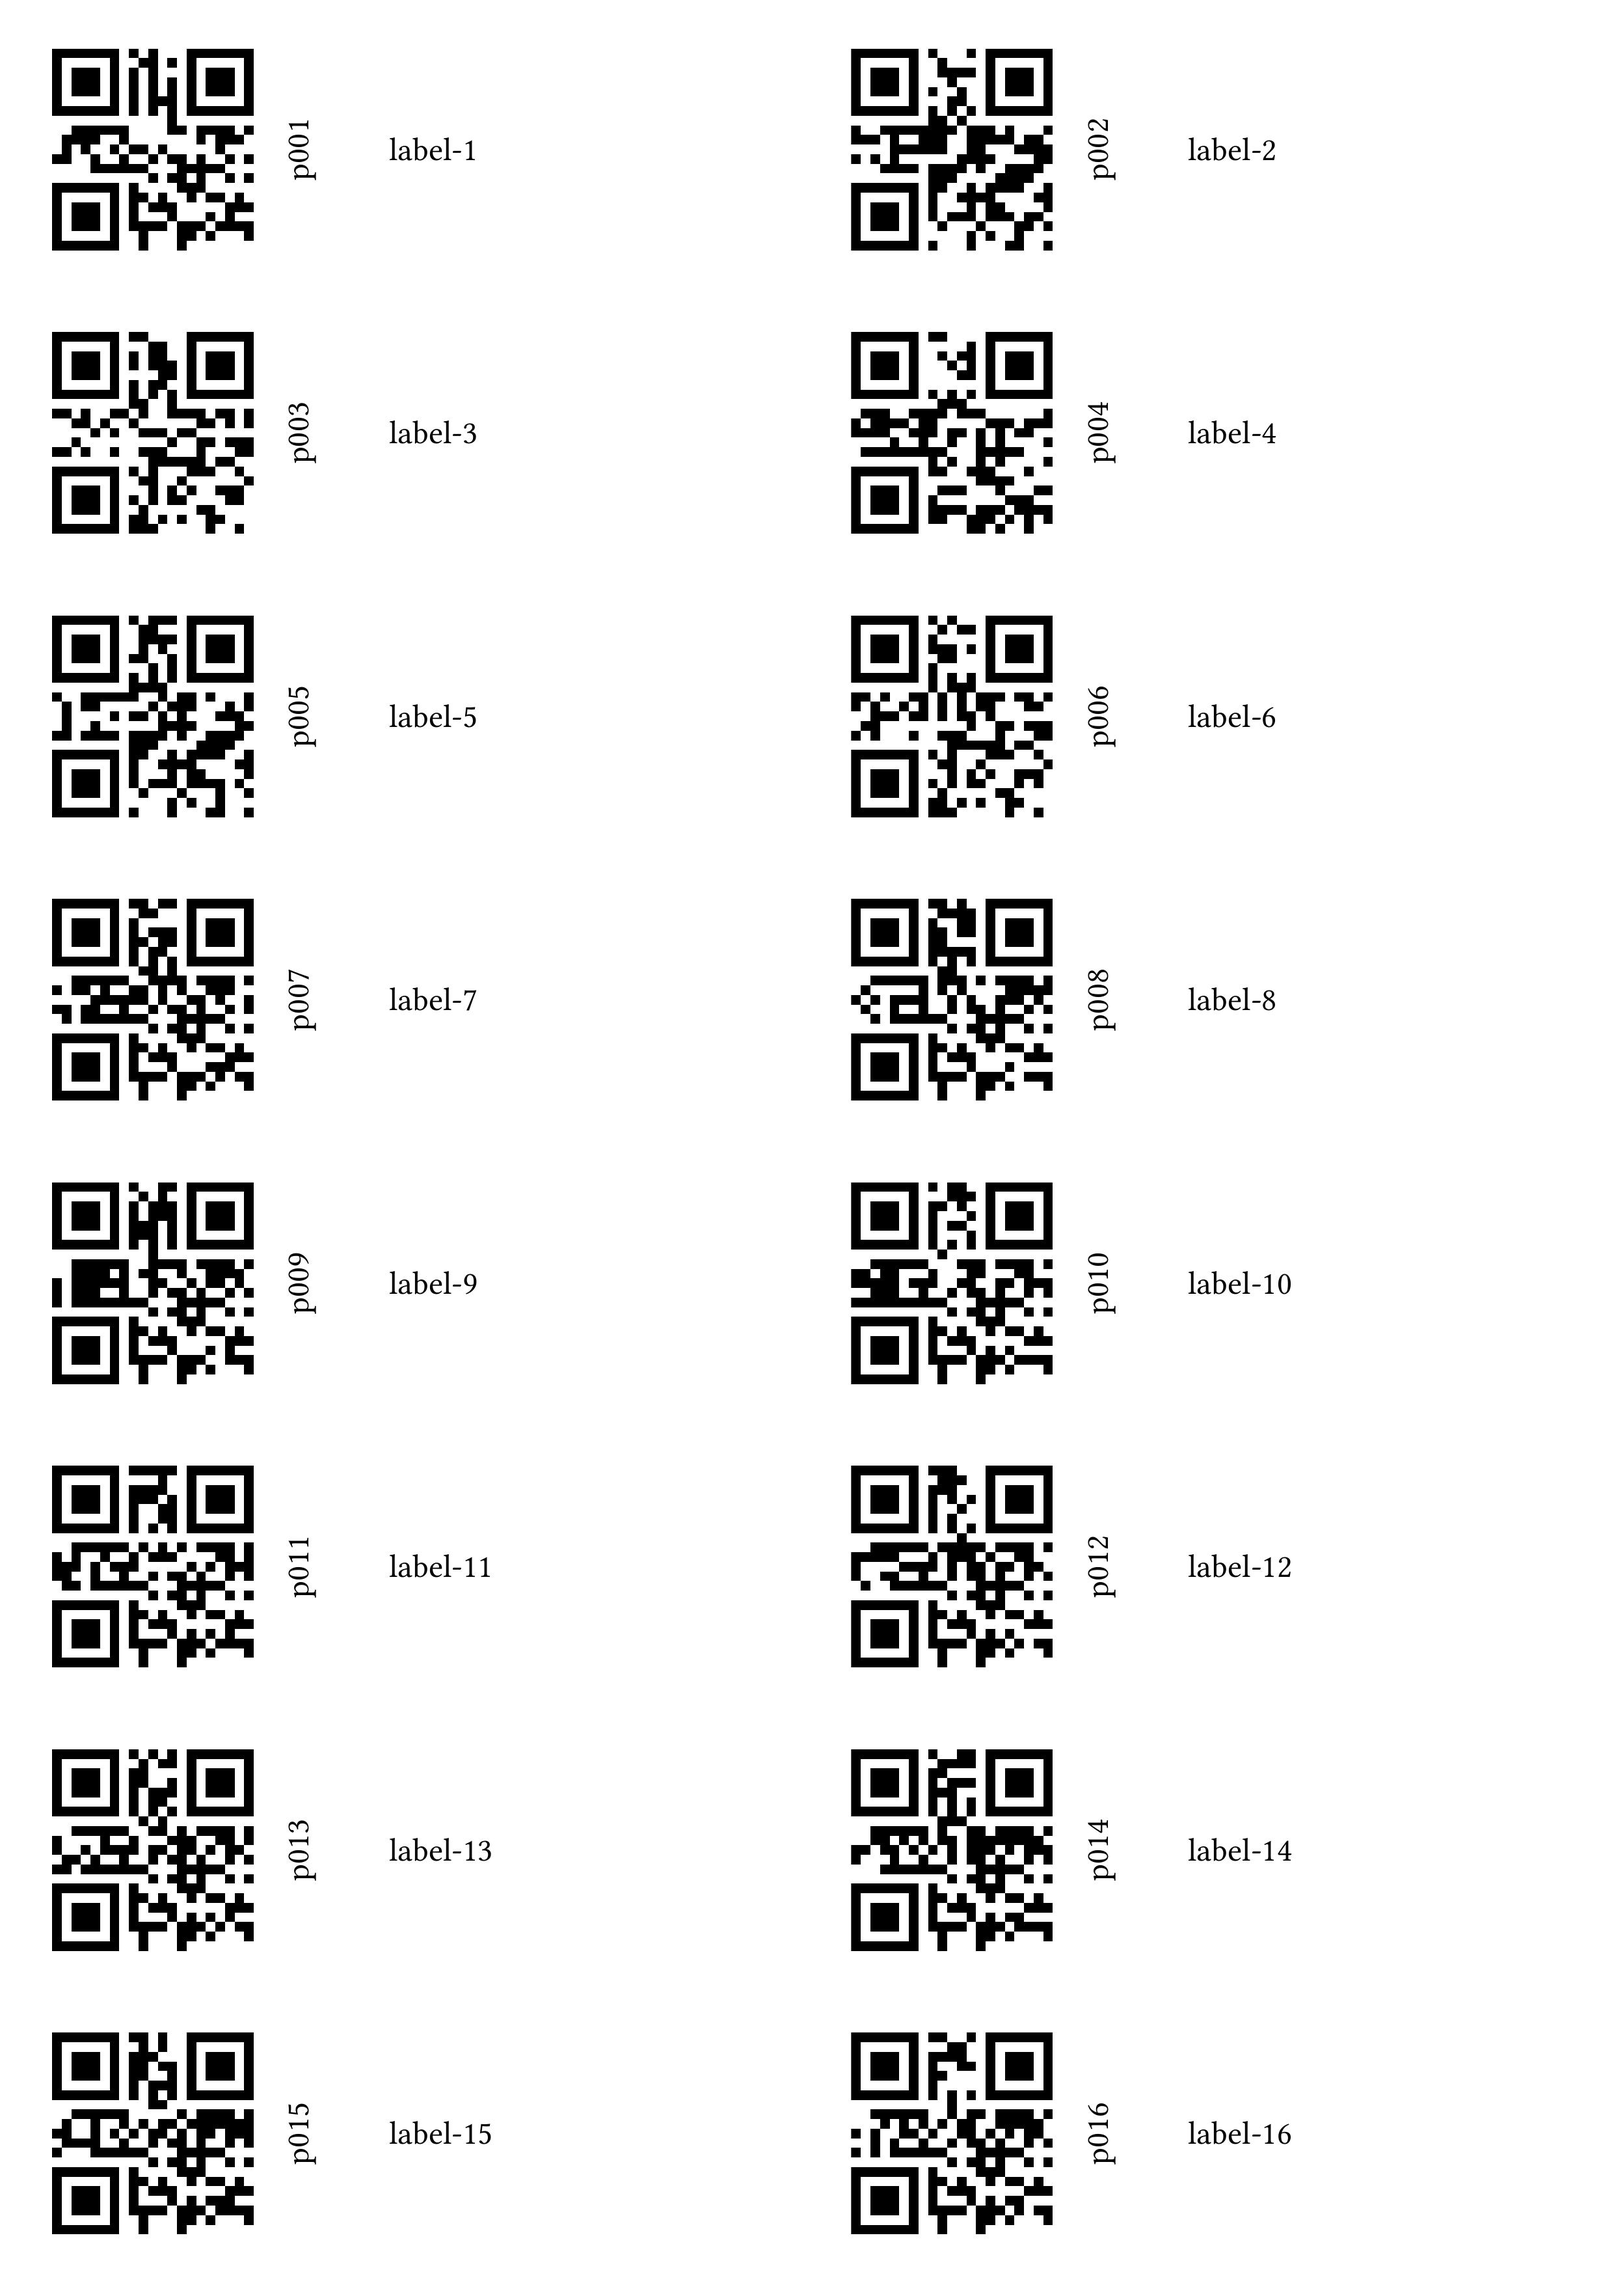
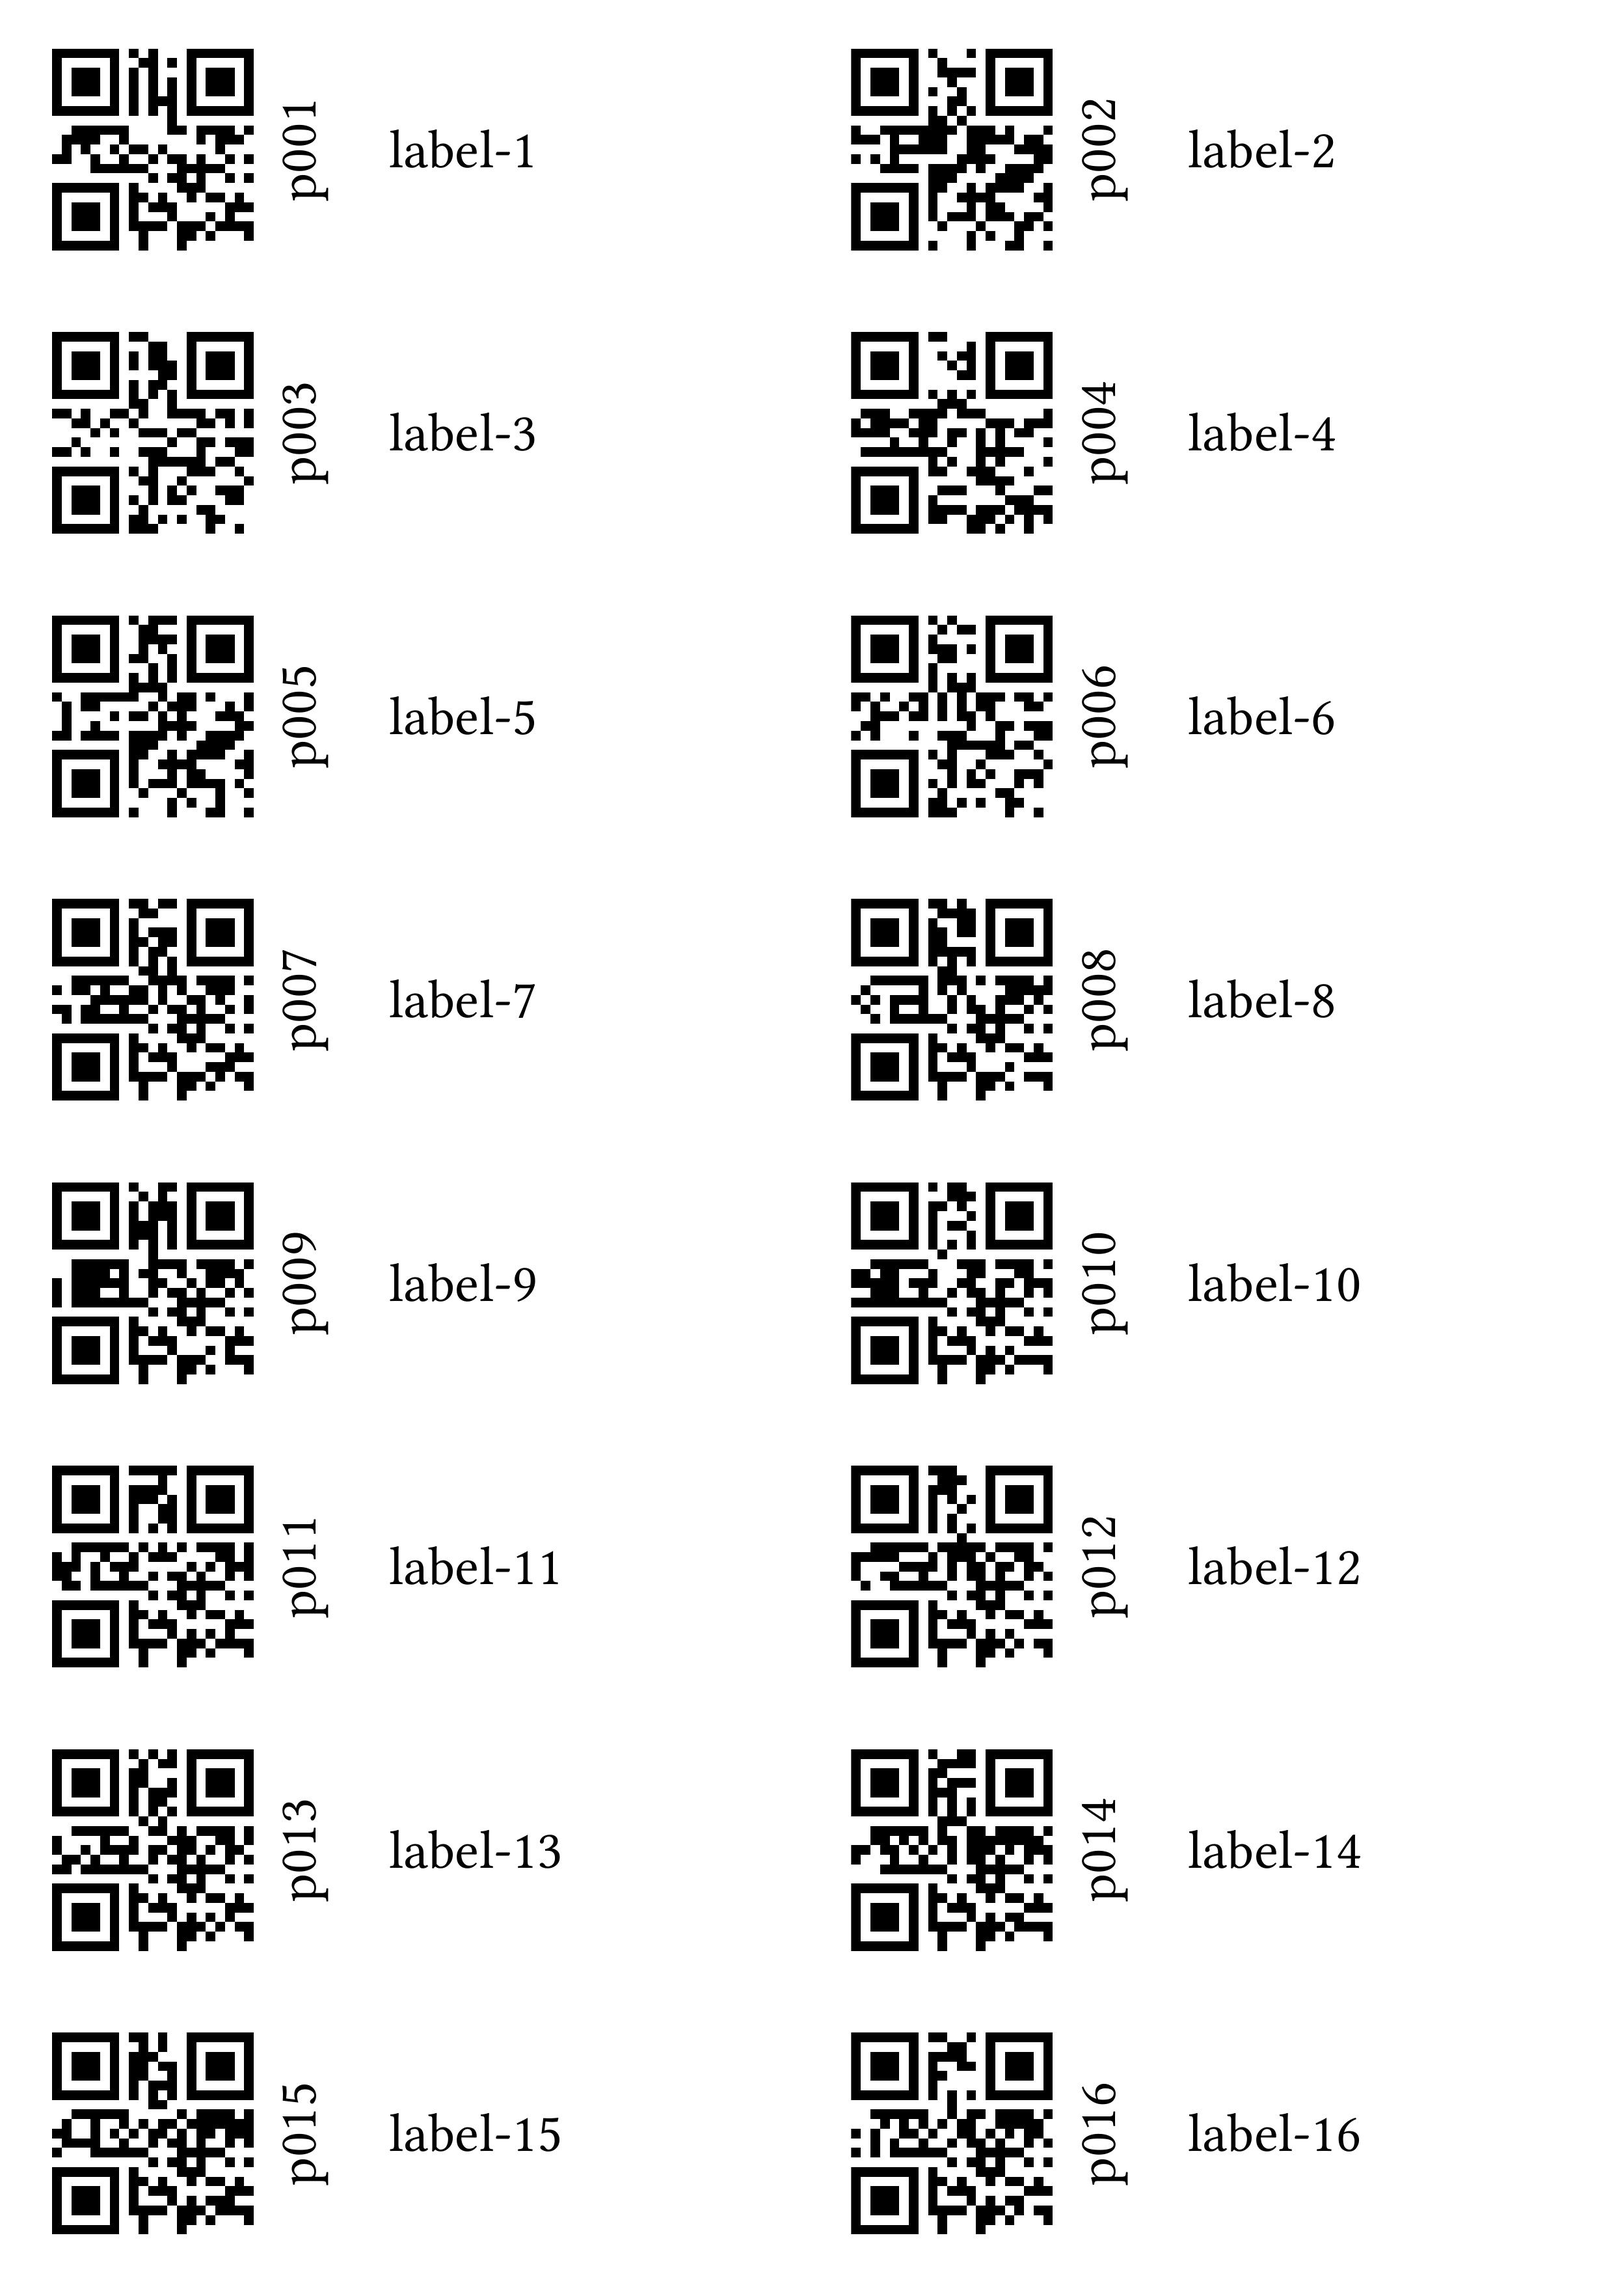
change readme picture font_size

diff --git a/README.md b/README.md
@@ -25,7 +25,7 @@ testdf = DataFrame(
 ```
 ```julia
 # Create labels
-labelyst(testdf,"example_1", "a4", [8, 2])
+labelyst(testdf,"example_1", "a4", [8, 2]; font_size = "20pt")
 ```
 <img src="docs/assets/example_1.jpg" width="600"> 
 
